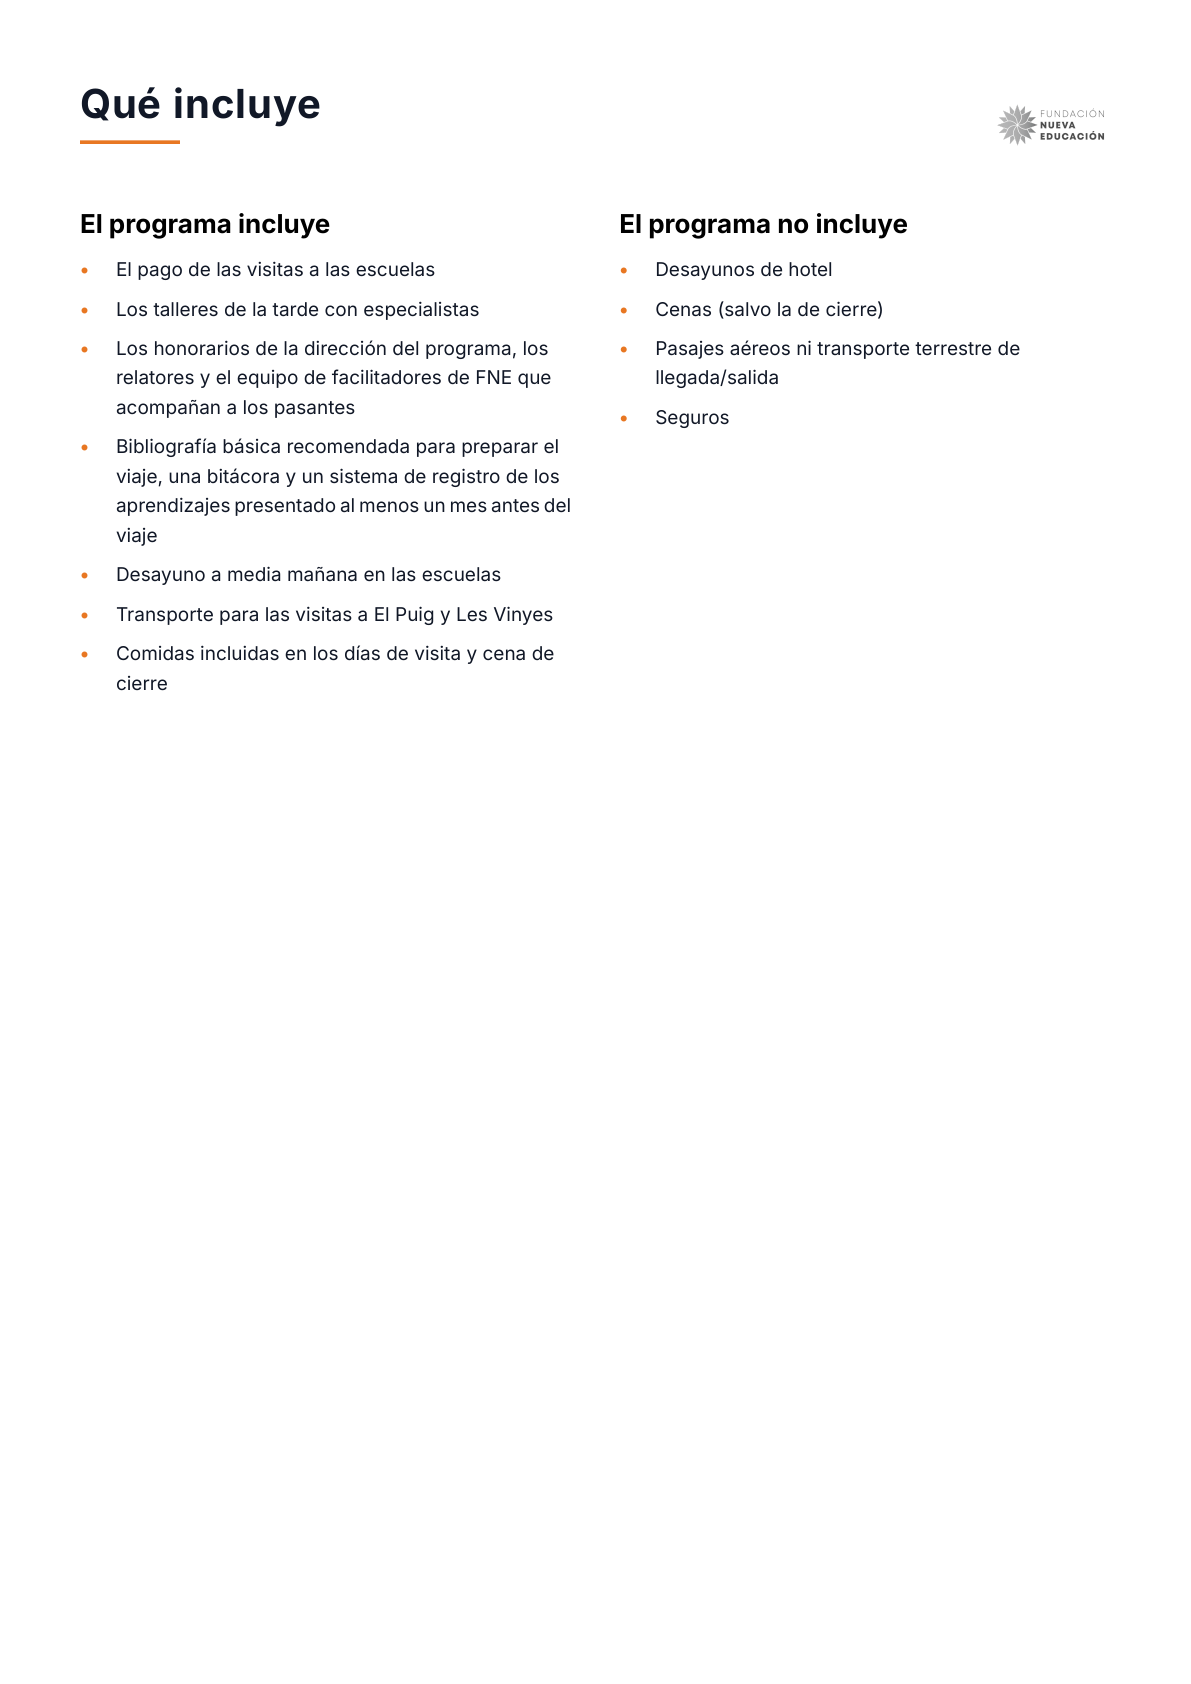
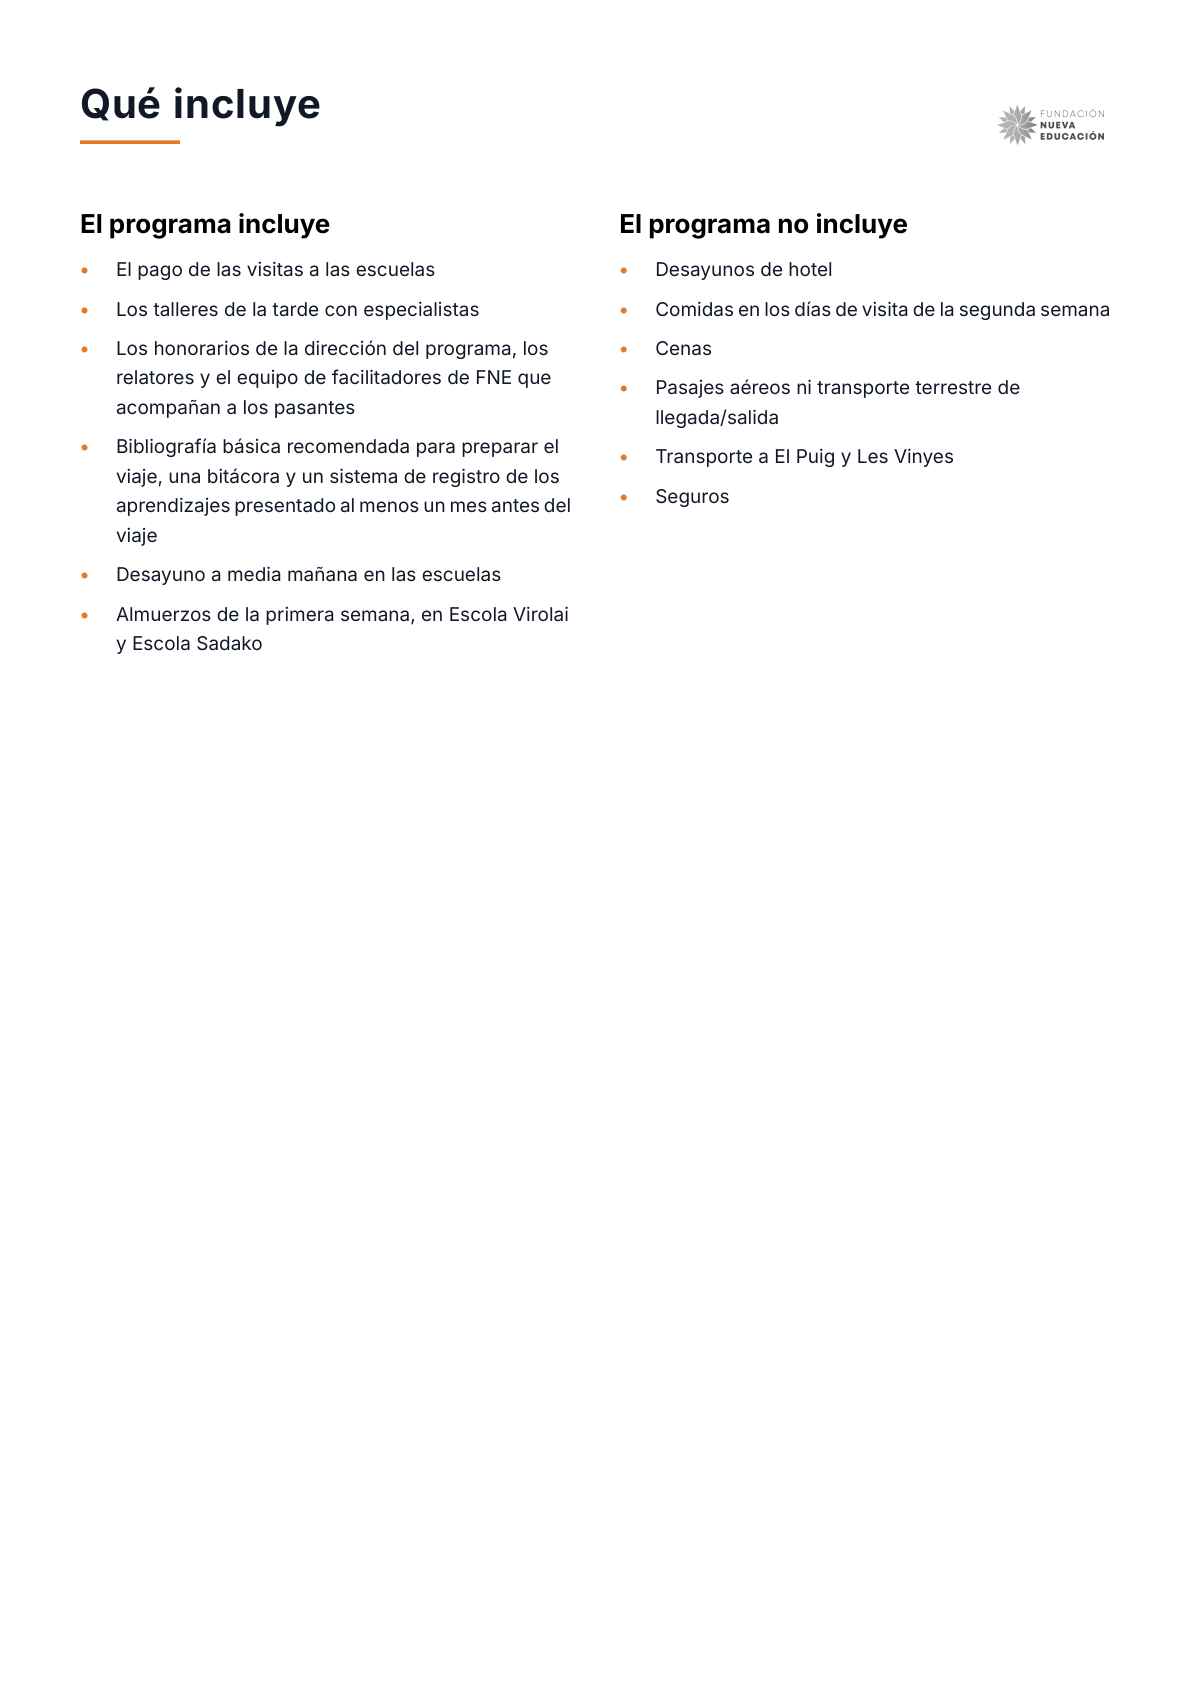
test(a3): reprice the brochure pins and re-render the changed evidence pages
Second half of the a1-repricing round, unblocked by the PR #37 merge.

- pdf.test.ts: the brochure now carries "2.500" and must NOT carry "1.000".
  The retired fee joins RETIRED_AMOUNT_PATTERNS in currency context (€1.000,
  1.000 EUR, €1000), whose two-directional control test gains five leak shapes;
  the bare not.toContain is kept as well because that is what PLAN A3 names.
  The includes/excludes render test follows the new terms and gains a
  prohibition case — cena de cierre was an inclusion, then a "salvo la de
  cierre" carve-out, and is now simply not offered.
- ficha MONETARY_TOKENS gains 2.500 and keeps 1.000: the ficha may carry
  neither the live price nor the retired one.
- format.ts: the es-CL grouping example used the retired price as its
  illustration; repriced so nobody reads the doc comment as the offer.
- evidence: 12 pages re-rendered, 3 changed — 08 (€2.500), 09 (new terms),
  10 (versión 2026-10-v3). Pages 01–07 and both ficha pages came back
  byte-identical, which is the expected result.

Changed region(s): [[0.5592, 0.1544, 0.8699, 0.3088], [0.0932, 0.3397, 0.466, 0.4014]]

diff --git a/lib/pasantias/__tests__/pdf.test.ts b/lib/pasantias/__tests__/pdf.test.ts
@@ -9,9 +9,10 @@
  * React tree, not a page.
  *
  * Two properties are load-bearing:
- *  - the brochure carries the Appendix A-8 investment (the €1.000 programme fee
- *    and the €70–120 per-night band on a base-doble basis) and never the retired
- *    €560 package or its €1.560 total, and never Madrid (removed 2026-08-02);
+ *  - the brochure carries the Appendix A-8 investment (the €2.500 programme fee
+ *    and the €70–120 per-night band on a base-doble basis) and never a retired
+ *    amount — the €560 package, its €1.560 total, or the €1.000 the owner
+ *    repriced away on 2026-08-02 — and never Madrid (removed 2026-08-02);
  *  - the ficha carries no monetary token at all — enforced structurally, since
  *    it does not import `cohort-commercial.ts` and so has no price in reach.
  */
@@ -166,9 +167,30 @@ describe('generateBrochure — cohort content (Appendix A)', () => {
   });
 
   it('renders what the programme includes and excludes', () => {
-    expect(brochureText).toContain('Comidas incluidas en los días de visita y cena de cierre');
+    // Terms replaced by the owner on 2026-08-02 with the canonical brochure:
+    // week-1 lunches are the whole of the meals inclusion, and week-2 meals,
+    // all dinners and the El Puig / Les Vinyes transport are exclusions.
+    expect(brochureText).toContain(
+      'Almuerzos de la primera semana, en Escola Virolai y Escola Sadako'
+    );
+    expect(brochureText).toContain('Comidas en los días de visita de la segunda semana');
+    expect(brochureText).toContain('Transporte a El Puig y Les Vinyes');
     expect(brochureText).toContain('Desayunos de hotel');
     expect(brochureText).toContain('Seguros');
+  });
+
+  it('renders none of the terms the 2026-08-02 amendment retired', () => {
+    // The closing dinner is the sharpest case: it was an inclusion, then an
+    // explicit "salvo la de cierre" carve-out, and is now simply not offered.
+    for (const retired of [
+      'Comidas incluidas en los días de visita y cena de cierre',
+      'cena de cierre',
+      'salvo la de cierre',
+      'Transporte para las visitas a El Puig y Les Vinyes',
+    ]) {
+      expect(brochureText).not.toContain(retired);
+      expect(brochureCompact).not.toContain(compact(retired));
+    }
   });
 
   it('identifies the controller, not just the brand', () => {
@@ -183,22 +205,35 @@ describe('generateBrochure — cohort content (Appendix A)', () => {
 });
 
 /**
- * The retired €560 lodging package and its €1.560 combined total (Appendix A-8,
- * amended 2026-07-31), in every form they could reach a page — but only ever in
- * **currency context**. The figures alone are three and four digits that occur
- * innocently in RUTs, phone numbers and addresses; a bare substring check goes
- * red on those coincidences, and a check that cries wolf is one that gets
- * loosened or removed. `RETIRED_AMOUNT_PATTERNS` is exercised in both
- * directions by its own control test below.
+ * Every amount Appendix A-8 has retired, in every form it could reach a page —
+ * but only ever in **currency context**. The figures alone are three and four
+ * digits that occur innocently in RUTs, phone numbers and addresses; a bare
+ * substring check goes red on those coincidences, and a check that cries wolf
+ * is one that gets loosened or removed. `RETIRED_AMOUNT_PATTERNS` is exercised
+ * in both directions by its own control test below.
+ *
+ * The €560 lodging package and its €1.560 total went on 2026-07-31; the €1.000
+ * programme fee joined them on 2026-08-02 when the owner repriced to €2.500.
+ * A superseded price is the most dangerous thing this brochure could print —
+ * it is a number FNE would have to honour or publicly retract.
  */
 const RETIRED_AMOUNT_PATTERNS: readonly RegExp[] = [
   /€\s*1?[.,]?560\b/, // €560 · € 560 · €1.560 · €1560
   /\b1?[.,]?560\s*(?:€|EUR\b|euros?\b)/i, // 560 € · 1.560 EUR · 1.560 euros
+  /€\s*1[.,]?000\b/, // €1.000 · € 1.000 · €1000
+  /\b1[.,]?000\s*(?:€|EUR\b|euros?\b)/i, // 1.000 € · 1.000 EUR · 1.000 euros
 ];
 
 describe('generateBrochure — investment per amended Appendix A-8', () => {
-  it('quotes the programme fee in es-CL currency format', () => {
-    expect(brochureText).toContain('1.000');
+  it('quotes the repriced programme fee in es-CL currency format', () => {
+    expect(brochureText).toContain('2.500');
+  });
+
+  it('carries no trace of the €1.000 the owner repriced away (2026-08-02)', () => {
+    // Both the bare grouped literal — what PLAN A3's criterion names — and the
+    // currency-context patterns above, which also catch `€1000` and `1.000 EUR`.
+    expect(brochureText).not.toContain('1.000');
+    expect(brochureCompact).not.toContain('1.000');
   });
 
   it('quotes the lodging band and its base-doble basis', () => {
@@ -244,6 +279,12 @@ describe('generateBrochure — investment per amended Appendix A-8', () => {
       '1.560 euros por persona',
       'Alojamiento€560',
       '€1560',
+      // Repriced away 2026-08-02 — the same guard, the same currency context.
+      'Programa: €1.000 por persona',
+      'Programa € 1.000',
+      '1.000 EUR por participante',
+      '1.000 euros por persona',
+      '€1000',
     ]) {
       expect(RETIRED_AMOUNT_PATTERNS.some((pattern) => pattern.test(leak))).toBe(true);
     }
@@ -273,7 +314,8 @@ const MONETARY_TOKENS: readonly RegExp[] = [
   /€/,
   /\bEUR\b/i,
   /\beuros?\b/i,
-  /\b1[.,]?000\b/,
+  /\b2[.,]?500\b/, // live programme fee (owner repricing, 2026-08-02)
+  /\b1[.,]?000\b/, // retired programme fee — barred from the ficha just as hard
   /\b70\b/,
   /\b120\b/,
   /por persona por noche/i,

diff --git a/lib/pasantias/pdf/format.ts b/lib/pasantias/pdf/format.ts
@@ -55,10 +55,10 @@ export function formatDayLong(isoDate: string): string {
 }
 
 /**
- * es-CL currency rendering: the thousands separator is a period, so €1.000 is
- * one thousand euros. Written by hand rather than through `Intl` because a
- * runtime built without full ICU silently falls back to `1,000`, which reads as
- * "one point zero" to a Chilean audience.
+ * es-CL currency rendering: the thousands separator is a period, so €2.500 is
+ * two thousand five hundred euros. Written by hand rather than through `Intl`
+ * because a runtime built without full ICU silently falls back to `2,500`,
+ * which reads as "two point five" to a Chilean audience.
  */
 export function formatEuro(amount: number): string {
   const whole = Math.trunc(Math.abs(amount)).toString();

diff --git a/docs/plan/evidence/a3/README.md b/docs/plan/evidence/a3/README.md
@@ -3,6 +3,14 @@
 Every page of both generated PDFs, rasterised at **144 DPI** (criterion [A4]).
 The PM inspects these files from the repository, not from a chat transcript.
 
+**Re-rendered 2026-08-03 for the `a1-repricing` round.** The owner's 2026-08-02
+repricing changed three pages and only three: `brochure-08` (Programa now
+**€2.500**), `brochure-09` (week-1 lunches in; week-2 meals, all cenas and the
+El Puig / Les Vinyes transport out) and `brochure-10` (the version caption, now
+`2026-10-v3` — the D-05 cache key was bumped with the price). Pages 01–07 and
+both ficha pages came back byte-identical, which is the expected result:
+nothing else in Appendix A moved.
+
 | File | Document | Page |
 |---|---|---|
 | `brochure-01.png` | Brochure | Portada |
